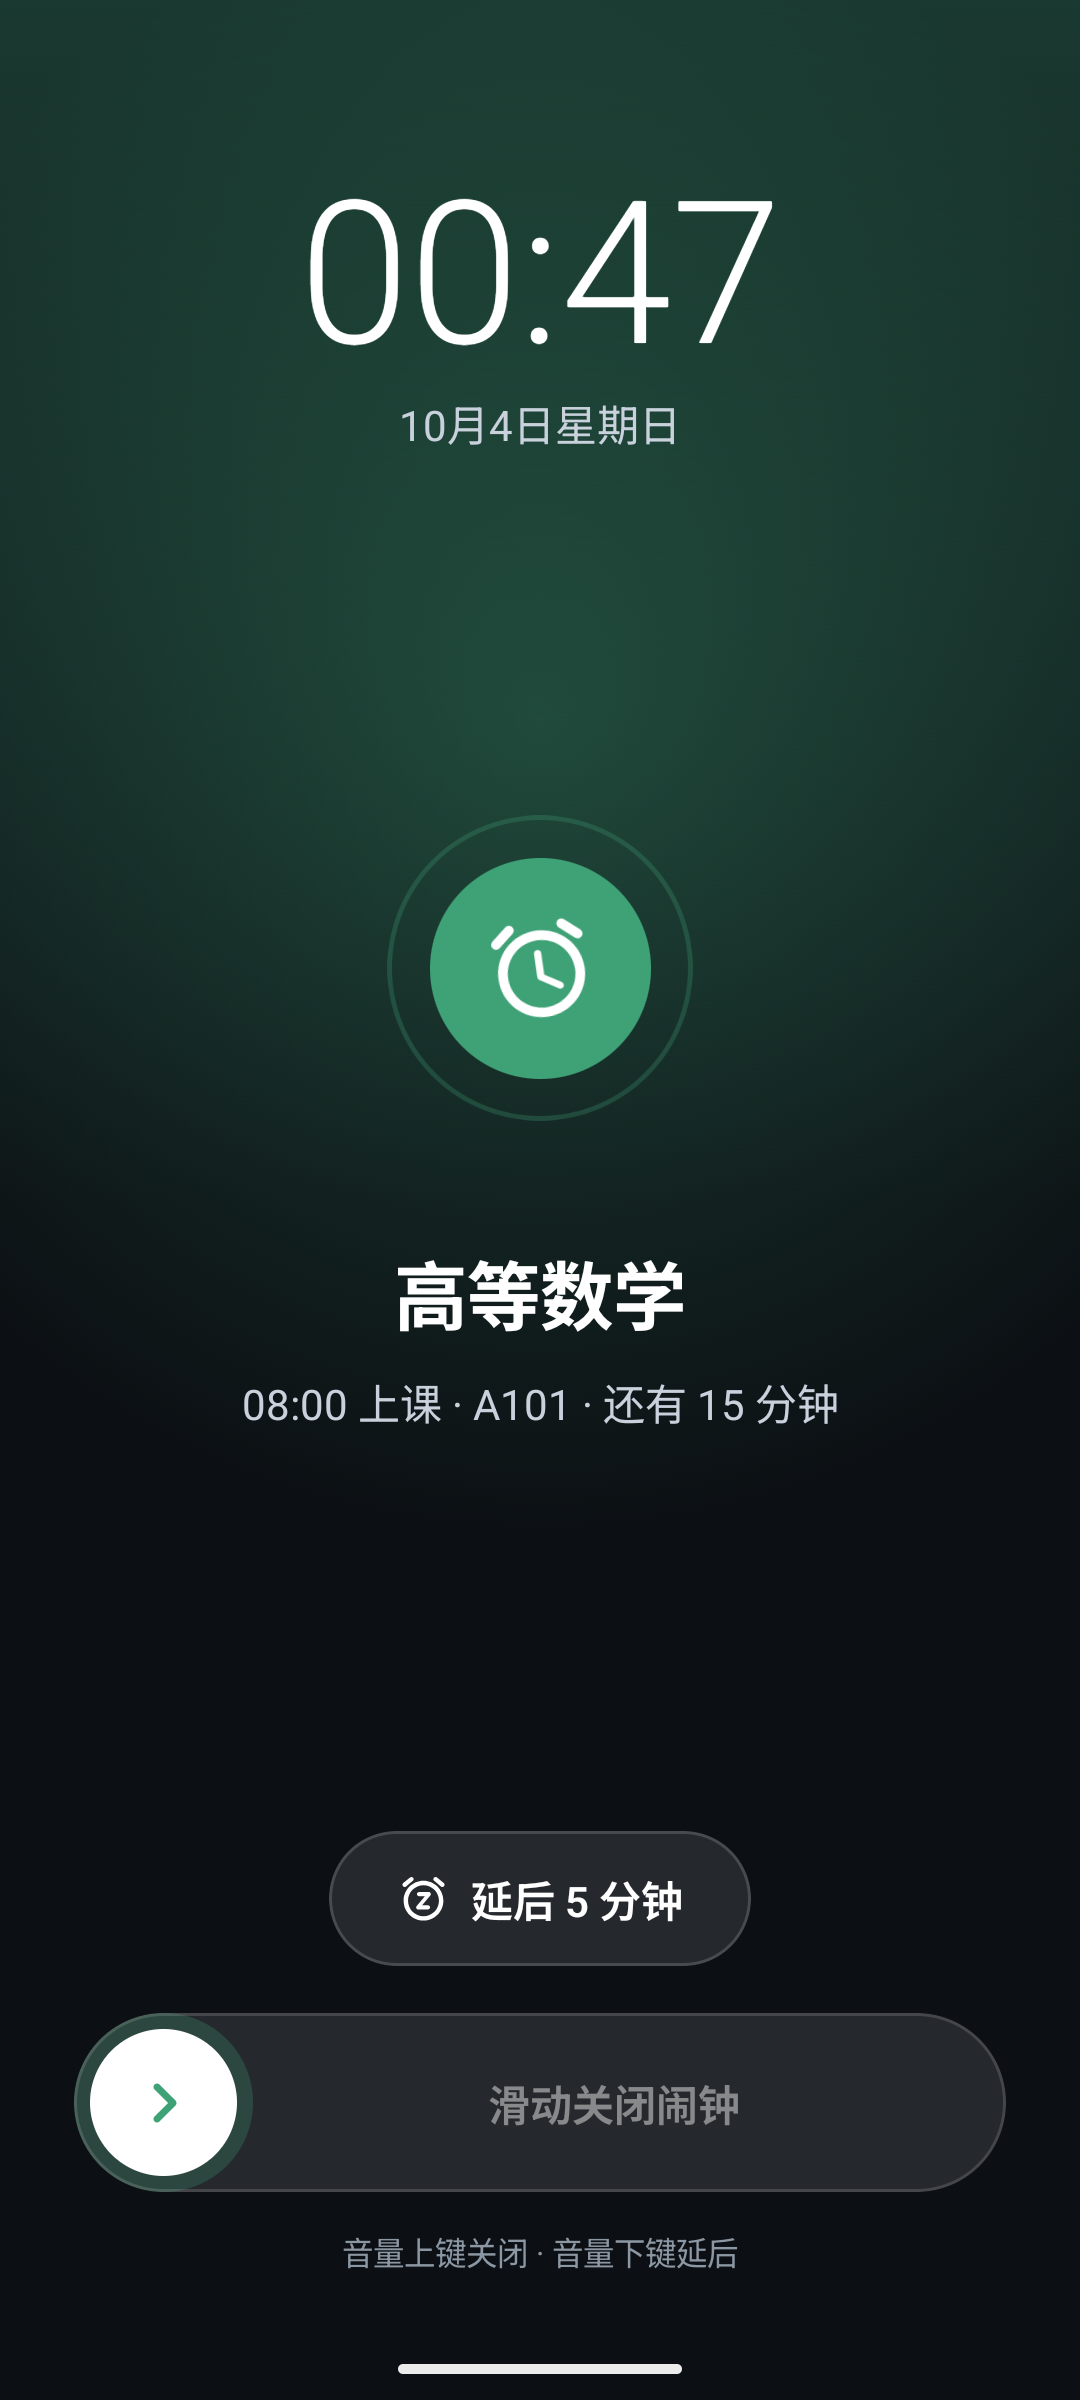
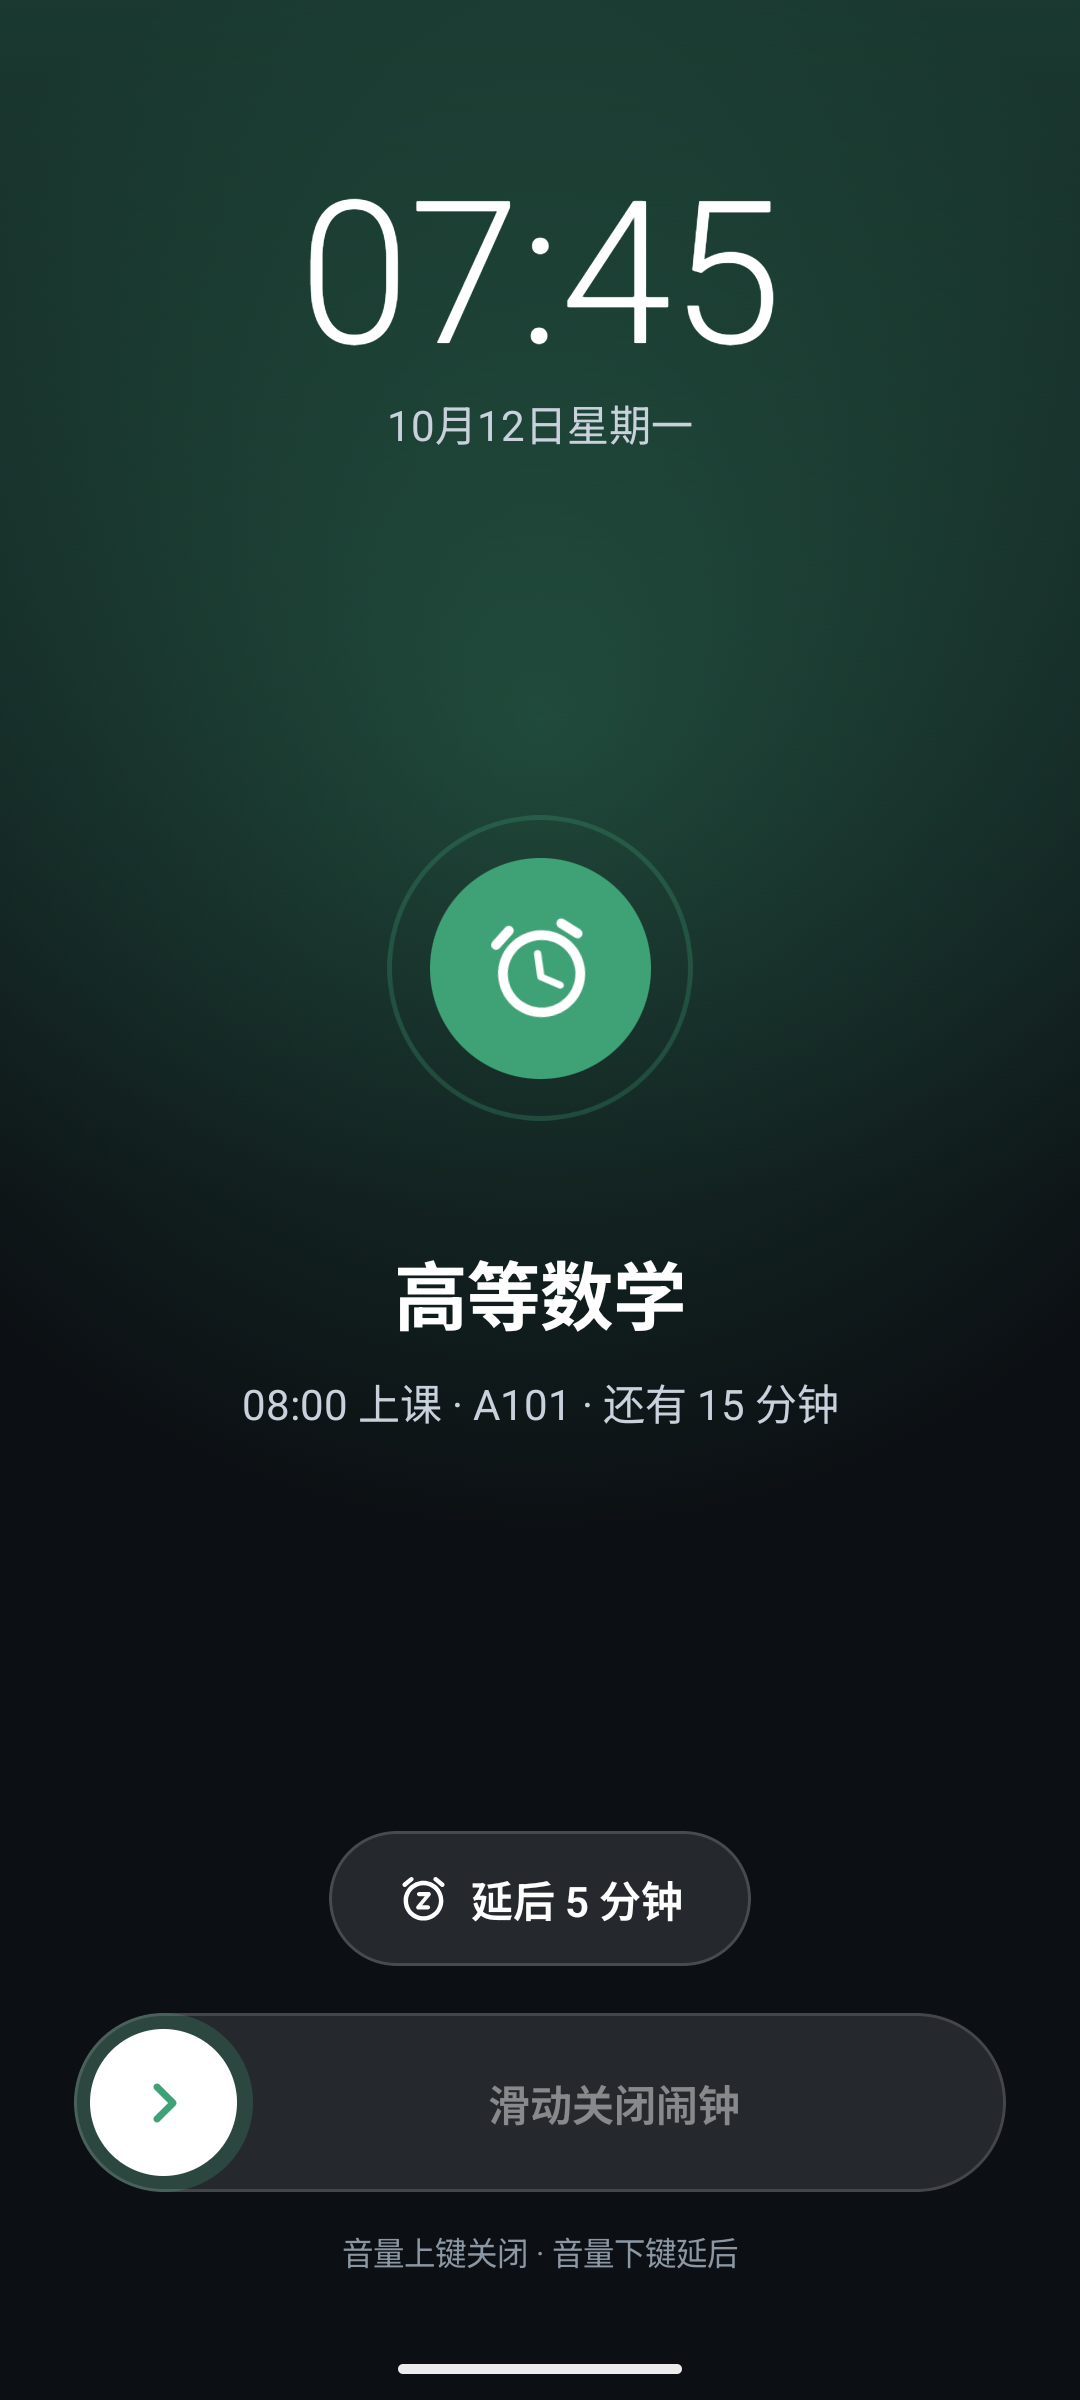
docs: frame alarm previews and capture realistic morning examples

Changed region(s): [[0.3667, 0.0625, 0.6417, 0.1875], [0.6417, 0.0625, 0.7333, 0.1562]]

diff --git a/style.css b/style.css
@@ -180,7 +180,11 @@ h2 { font-size: clamp(30px, 3.6vw, 44px); line-height: 1.2; font-weight: 800; le
 .duo .card-img:first-child { left: 0; top: 40px; transform: rotate(-4deg); z-index: 2; }
 .duo .card-img:last-child { right: 0; top: 0; transform: rotate(3deg); }
 .alarm-shots { height: 560px; }
-.alarm-shots .card-img { width: 47%; }
+.alarm-shots .phone { position: absolute; width: 47%; padding: 7px; border-radius: 36px; }
+.alarm-shots .phone img { border-radius: 29px; }
+.alarm-shots .phone::after { top: 16px; width: 8px; height: 8px; margin-left: -4px; }
+.alarm-shots .phone:first-child { left: 0; top: 40px; transform: rotate(-4deg); z-index: 2; }
+.alarm-shots .phone:last-child { right: 0; top: 0; transform: rotate(3deg); }
 .shot-note { margin-top: 20px; color: var(--mute); font-size: 13.5px; }
 
 .stack { position: relative; padding-bottom: 20px; }
@@ -361,6 +365,9 @@ h2 { font-size: clamp(30px, 3.6vw, 44px); line-height: 1.2; font-weight: 800; le
 
   .tabs button { padding: 7px 11px; font-size: 13.5px; }
   .duo { height: 400px; }
+  .alarm-shots { height: 430px; }
+  .alarm-shots .phone { padding: 6px; border-radius: 30px; }
+  .alarm-shots .phone img { border-radius: 24px; }
   .stack-top { width: 300px; }
   .schools { grid-template-columns: 1fr; }
   .bento { grid-template-columns: 1fr; }

diff --git a/index.html b/index.html
@@ -227,8 +227,8 @@
   <div class="wrap feature-in">
     <div class="feature-media reveal">
       <div class="duo alarm-shots">
-        <div class="card-img"><img src="assets/shots/alarm-ringing.png" alt="新闹钟响铃界面 · 演示数据" width="1080" height="2400" loading="lazy"></div>
-        <div class="card-img"><img src="assets/shots/system-clock.png" alt="写入系统时钟确认与静音选项" width="1080" height="2400" loading="lazy"></div>
+        <div class="phone"><img src="assets/shots/alarm-ringing.png" alt="早上 07:45 的上课闹钟 · 演示数据" width="1080" height="2400" loading="lazy"></div>
+        <div class="phone"><img src="assets/shots/system-clock.png" alt="写入明天 07:45 和 09:45 的系统时钟 · 演示数据" width="1080" height="2400" loading="lazy"></div>
       </div>
     </div>
     <div class="feature-text reveal">
